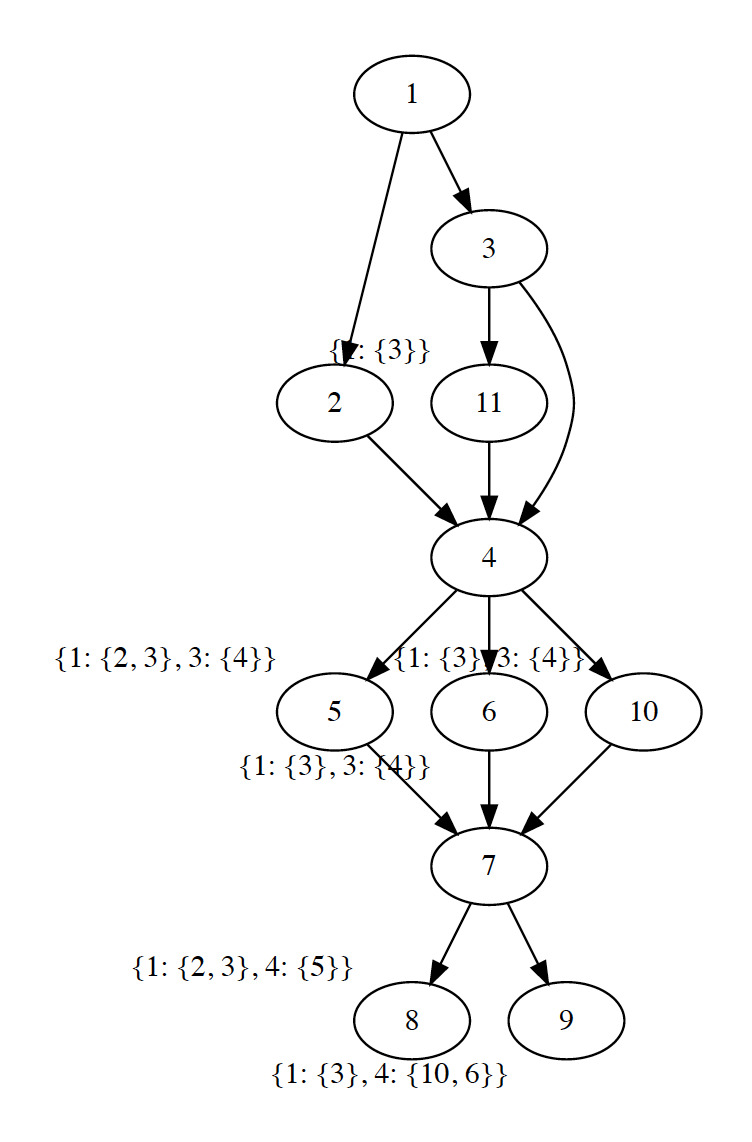
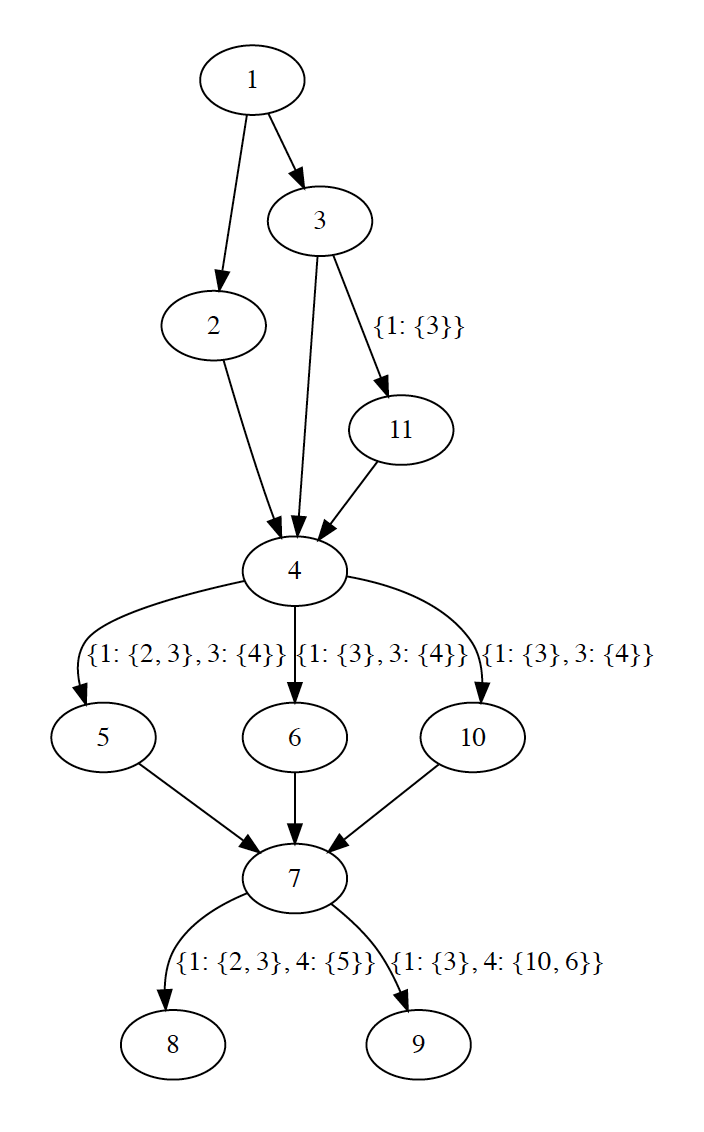
Graph Visualization

diff --git a/visualization.py b/visualization.py
@@ -30,21 +30,21 @@ def getGraph(output):
 			if sub_key not in nodes:
 				nodes.append(str(sub_key))
 			
-	for key in  output.keys():
-		for sub_key in output[key].keys():
-			if output[key][sub_key]['constraint']:
+	# for key in  output.keys():
+	# 	for sub_key in output[key].keys():
+	# 		if output[key][sub_key]['constraint']:
 
-				dot.node(str(sub_key), str(sub_key), xlabel=str(output[key][sub_key]['constraint']))
-				nodes.remove(str(sub_key))
+	# 			dot.node(str(sub_key), str(sub_key), xlabel=str(output[key][sub_key]['constraint']))
+	# 			nodes.remove(str(sub_key))
 
 	for i in nodes:
 		dot.node(i, i)
 	for key in output.keys():
 		for sub_key in output[key].keys():
-			# if output[key][sub_key]['constraint']:
-			dot.edge(str(key),str(sub_key), constraint='true')
-			# else:
-			# 	dot.edge(str(key),str(sub_key), constraint='false')
+			if output[key][sub_key]['constraint']:
+				dot.edge(str(key),str(sub_key), constraint='true', label=str(output[key][sub_key]['constraint']))
+			else:
+				dot.edge(str(key),str(sub_key), constraint='true')
 
 
 	dot.render('test-output/graph-aggregator.gv', view=True)  
